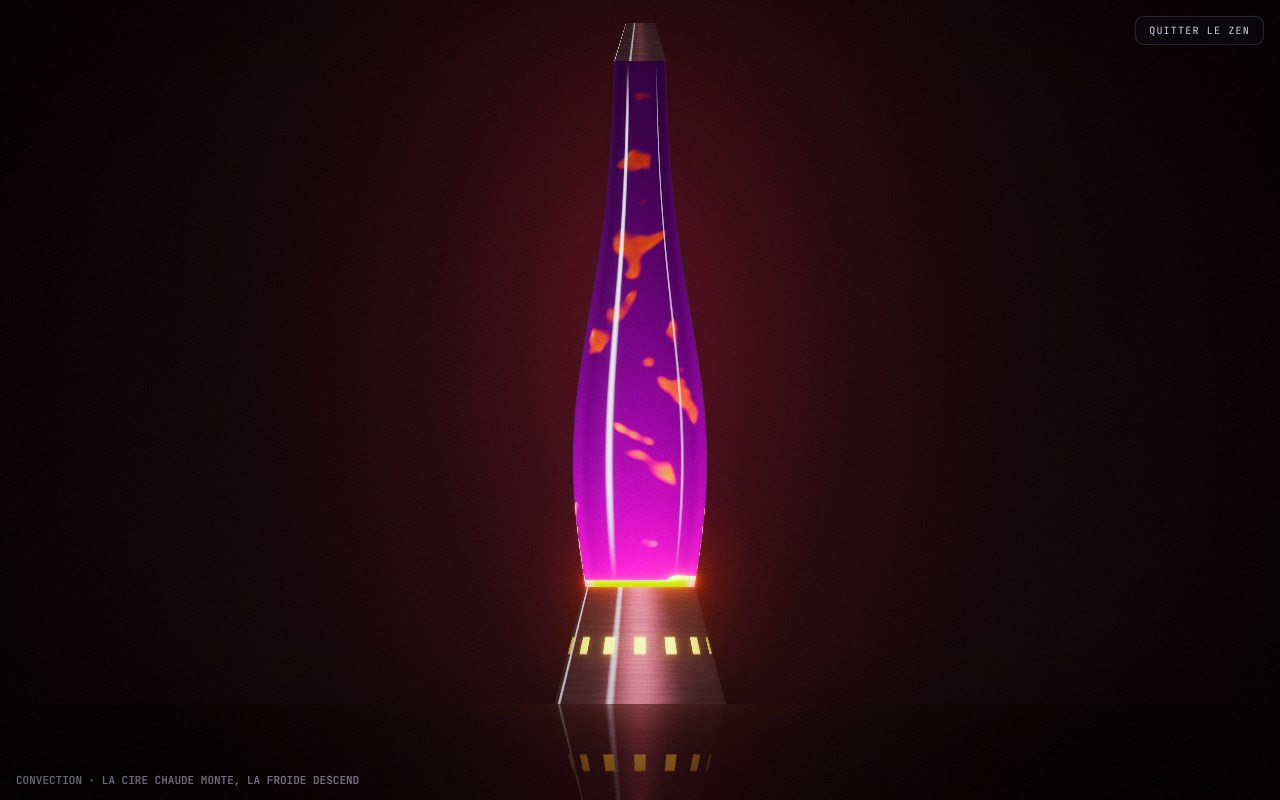
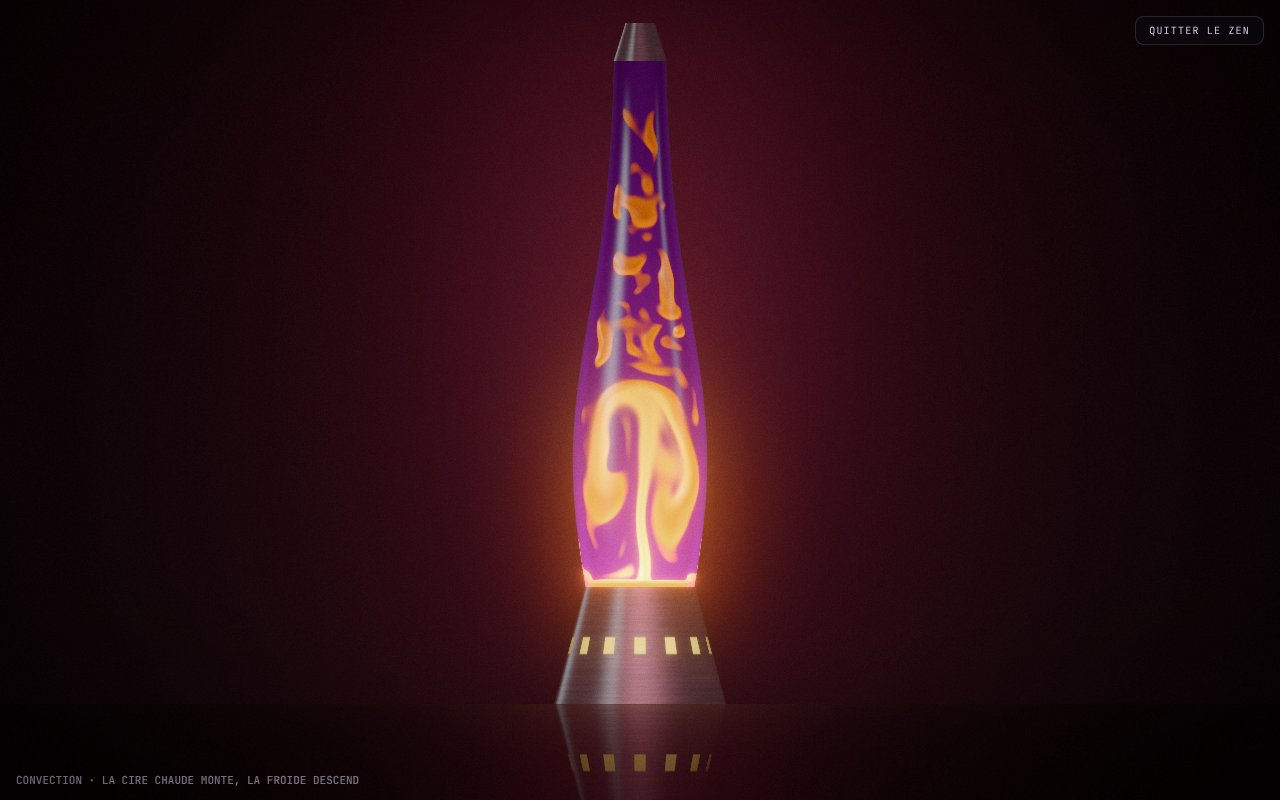
Lampe à lave : couleurs AgX, verre sans rayures, départ déjà en marche ; Bénard démarre en rouleaux
Retours de la recette qualité : cire orange (plus de jaune citron), liquide
violet, reflets de fenêtre en bandes douces sur le verre et le socle, bords
de cire plus nets, lampe qui démarre avec une flaque chaude et des gouttes
en route. Bénard part du profil de conduction avec une ondulation en
rouleaux : la convection se voit dès la première seconde.

Claude-Session: https://claude.ai/code/session_01MS9d5JmMjbNw1P1jiRQA2y

Changed region(s): [[0.375, 0.0312, 0.625, 0.9062]]

diff --git a/app/js/machines/s-lave.js b/app/js/machines/s-lave.js
@@ -154,7 +154,7 @@ vec3 env(vec3 r, float k){
   vec3 gl = mix(vec3(dot(glow(), vec3(.3, .5, .2))), glow(), .55);                     // le métal argenté désature les reflets
   c += gl * 1.8 * k * smoothstep(.05, -.75, r.y) * exp(-r.x * r.x * 3.);           // la lampe elle-même
   c += gl * .16 * (1. - abs(r.y)) + vec3(.012, .012, .014) * smoothstep(.6, -.2, r.y);  // le mur qu'elle éclaire, le plafond
-  c += vec3(.9, .95, 1.05) * smoothstep(.1, .0, abs(r.x + .62)) * smoothstep(.75, .1, abs(r.y + .1)) * .6;
+  c += vec3(.9, .95, 1.05) * exp(-pow((r.x + .62) / .16, 2.)) * smoothstep(.75, .1, abs(r.y + .1)) * .3;
   c += BULB * .02 * uOn * smoothstep(0., .8, r.y);
   return c;
 }
@@ -188,7 +188,7 @@ vec3 scene(vec2 px){
       vec4 s = texture(uS, suv);
       // contour arrondi : la phase moyennée sur une case autour
       float ph = s.r * .4 + (texture(uS, suv + vec2(uPx.x, 0.)).r + texture(uS, suv - vec2(uPx.x, 0.)).r + texture(uS, suv + vec2(0., uPx.y)).r + texture(uS, suv - vec2(0., uPx.y)).r) * .15;
-      float w = smoothstep(-.3, .3, ph);
+      float w = smoothstep(-.13, .13, ph);
       vec2 g = vec2(texture(uS, suv + vec2(uPx.x, 0.)).r - texture(uS, suv - vec2(uPx.x, 0.)).r, texture(uS, suv + vec2(0., uPx.y)).r - texture(uS, suv - vec2(0., uPx.y)).r);
       float pR = texture(uS, suv + vec2(3. * uPx.x, 0.)).r, pL = texture(uS, suv - vec2(3. * uPx.x, 0.)).r, pT = texture(uS, suv + vec2(0., 3. * uPx.y)).r, pB = texture(uS, suv - vec2(0., 3. * uPx.y)).r;
       float th = clamp((pR + pL + pT + pB) * .125 + .5, 0., 1.);
@@ -206,7 +206,8 @@ vec3 scene(vec2 px){
       vec3 inside = mix(lq, wx, w);
       // le verre : reflets de Fresnel, une fenêtre à gauche, la lumière piégée dans la paroi qui fait briller les bords
       float F = .04 + .96 * pow(1. - ct, 5.);
-      vec3 refl = vec3(.02, .022, .03) * F + vec3(1.1, 1.15, 1.25) * (smoothstep(.07, .0, abs(X + .46)) * .5 + smoothstep(.03, .0, abs(X - .63)) * .22) * smoothstep(.0, .2, Y) * smoothstep(1., .85, Y);
+      float bandY = smoothstep(.05, .35, Y) * smoothstep(.98, .7, Y);
+      vec3 refl = vec3(.02, .022, .03) * F + vec3(1.05, 1.1, 1.2) * (exp(-pow((X + .48) / .11, 2.)) * .2 + exp(-pow((X - .62) / .06, 2.)) * .07) * bandY;
       inside = inside * (1. - F) + refl + lq * smoothstep(.78, 1., abs(X)) * .9;
       col = mix(col, inside, cov);
     }
@@ -887,6 +888,8 @@ void main(){
     /* ───────── grilles ───────── */
     // profil du verre : un fuseau renflé en bas (demi-largeur en fraction de la grille)
     const hw = (y) => 0.17 + 0.29 * Math.exp(-Math.pow((y - 0.24) / 0.4, 2));
+    // gouttes de départ : x, y (fractions de la grille), rayon (en hauteur de grille), température (0 froid → 1 chaud)
+    const LAMP_BLOBS = [[0.5, 0.3, 0.05, 0.42], [0.43, 0.5, 0.036, 0.4], [0.57, 0.66, 0.042, 0.34], [0.48, 0.84, 0.032, 0.26], [0.53, 0.17, 0.035, 0.45]];
     function build() {
       const Q = QUAL[cfg.q], { K, gl } = G;
       let GW, GH;
@@ -899,8 +902,19 @@ void main(){
         if (cfg.scene === 'lampe') solid = Math.abs(x - 0.5) > hw(y) || y < 0.012 || y > 0.988;
         else solid = i === 0 || i === GW - 1 || j === 0 || j === GH - 1;
         mask[k] = solid ? 1 : 0;
-        if (cfg.scene === 'lampe') { S[k] = y < 0.16 ? 1 : -1; S[k + 1] = 0.25; }
-        else { S[k] = -1; S[k + 1] = 0.5 - (y - 0.5) * 0.02 + rnd(0.01, -0.01); S[k + 2] = y; }
+        if (cfg.scene === 'lampe') {
+          // une lampe déjà en marche (recette qualité : « départ vide ») : une flaque chaude au fond, des gouttes en route,
+          // le liquide plus chaud en bas qu'en haut. Éteindre puis rallumer montre la longue mise en chauffe.
+          let ph = y < 0.1 ? 1 : -1, tt = 0.3 - 0.05 * y;
+          for (const [bx, by, br, bt] of LAMP_BLOBS) { const dx = ((x - bx) * GW) / GH, dy = y - by; if (dx * dx + dy * dy < br * br) { ph = 1; tt = bt; } }
+          S[k] = ph; S[k + 1] = y < 0.1 ? 0.5 : tt;
+        }
+        else {
+          // Bénard (recette qualité : « un rectangle uni, comme une mire ») : on part du profil de conduction (chaud en bas,
+          // froid en haut) avec une petite ondulation en rouleaux ; au-dessus du seuil elle grandit, en dessous elle s'éteint.
+          S[k] = -1; S[k + 2] = y;
+          S[k + 1] = Math.min(1, Math.max(0, 0.82 - 0.64 * y + 0.07 * Math.cos(TAU * x * 6 + 0.4) * Math.sin(Math.PI * y) + rnd(0.01, -0.01)));
+        }
       }
       const F = gl.LINEAR;
       R = {
@@ -909,7 +923,7 @@ void main(){
         V: K.double(GW, GH, 'f16', F), S: K.double(GW, GH, 'f16', F), Mu: K.target(GW, GH, 'f16', F), P: K.double(GW, GH, 'f16', gl.NEAREST), D: K.target(GW, GH, 'f16', gl.NEAREST),
       };
       for (const t of [R.S.r, R.S.w]) { gl.bindTexture(gl.TEXTURE_2D, t.tex); gl.texImage2D(gl.TEXTURE_2D, 0, gl.RGBA16F, GW, GH, 0, gl.RGBA, gl.FLOAT, S); }
-      warm = 0;
+      warm = cfg.scene === 'lampe' && cfg.on ? 0.6 : 0;
     }
 
     /* ───────── un pas du solveur ───────── */
@@ -1003,7 +1017,7 @@ void main(){
             .f('uBase', baseTop, baseBot, wb, wb * 1.55).f('uCap', capBot, capTop, wt, wt * 0.55).f('uWax', ...C.wax).f('uLiq', ...C.liq)
             .f('uOn', cfg.on ? 1 : 0).f('uT', T).f('uWarm', warm).f('uHeat', cfg.heat).f('uCx', cx).f('uTab', baseBot);
           K.run(pg.lampH, G.cab.scene);
-          G.cab.finish({ expo: 1.3, bloom: 1.0, thr: 0.7, knee: 0.6, radius: 0.8, vig: 0.4, grain: 0.03, grainBlack: 0.4 });
+          G.cab.finish({ tone: 'agx', expo: 1.25, bloom: 0.9, thr: 0.8, knee: 0.6, radius: 0.8, vig: 0.4, grain: 0.03, grainBlack: 0.4 });
         } else {
         pg.lamp.use().t('uS', R.S.r).t('uM', R.M).f('uRes', cw, ch).f('uPx', R.px[0], R.px[1]).f('uBox', b.x * s, b.y * s, b.w * s, b.h * s).f('uWax', ...C.wax).f('uLiq', ...C.liq).f('uDecor', bare ? 0 : 1).f('uInk', ink ? 1 : 0).f('uOn', cfg.on ? 1 : 0.15).f('uT', T);
         K.run(pg.lamp, null);

diff --git a/docs/rendu/RENDU-A.md b/docs/rendu/RENDU-A.md
@@ -25,6 +25,7 @@ Toutes les scènes passent par la cabine (`FKGL.cabine`, dans FKR). L'ancien ren
 
 - **La lampe** : pièce sombre éclairée par la lampe ; verre cylindrique (le liquide fait loupe : centre grossi, bords serrés), reflets de Fresnel et d'une fenêtre, lumière piégée dans la paroi. Le liquide diffuse la lumière de l'ampoule (intense en bas) ; l'œil s'adapte à sa teinte chaude (balance des blancs partielle). La cire est translucide : les parties minces s'illuminent, le dessous des gouttes s'allume face à l'ampoule, un reflet de fenêtre les arrondit. Socle et chapeau en aluminium brossé, fentes d'aération lumineuses, table laquée où la lampe se reflète. Le verre et le socle sont un peu plus bas qu'avant (`lampBox`) pour laisser voir la table.
 - **Bénard** : palette « inferno » (perceptuellement régulière) avec relief ; colorant en vert fluorescent sur liquide sombre. Relecture de Kurt : la plaque de cuivre ne rougeoie plus (à quelques dizaines de degrés, un métal ne luit pas ; il faut environ 500 °C), elle est couleur cuivre, et la plaque froide est grise ; l'écran dit « fausses couleurs : la température (noir = plus froid, jaune = plus chaud) ».
+- **Retours de la recette qualité (13/11)** : la lampe passe en courbe AgX (la cire reste orange au lieu de virer au jaune citron, le liquide reste violet au lieu de magenta) ; les reflets de fenêtre sur le verre et le socle sont des bandes larges et douces, plus de traits blancs de haut en bas ; les bords de la cire sont plus nets ; la lampe démarre **déjà en marche** (une flaque chaude au fond et des gouttes en route : plus de « départ vide » ; éteindre puis rallumer montre toujours la longue mise en chauffe). Bénard démarre du profil de conduction (chaud en bas, froid en haut) avec une petite ondulation en rouleaux : on voit la convection dès la première seconde, au lieu d'un rectangle rose uni pendant 30 s (au-dessus du seuil l'ondulation grandit, en dessous elle s'éteint). Reste : la cire s'effiloche en filets (« fumée ») et perd du volume avec le temps ; c'est le solveur (advection non conservative), pas le rendu.
 - **Le Soleil** : granules bombés sur une grille de Voronoï tordue, couloirs, points brillants, granules qui « explosent » ; facules près du bord, chromosphère. Comme les images d'observatoire, une luminance colorisée par une palette or (l'image défait d'avance la courbe ACES de la cabine). Le texte le dit : le Soleil est blanc, l'or est une convention.
 
 ### Volcans et intérieur de la Terre (demande de Yoann, cadrage de Kurt, brief 93ac705)
